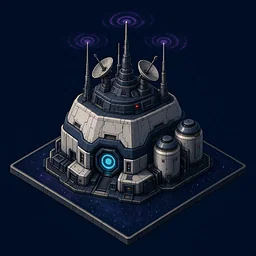
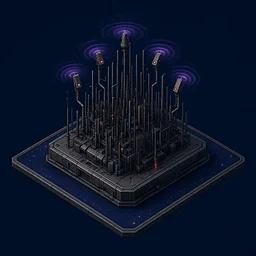
Colony version 3 art: 13 building cards, 12 wanderer portraits
Third xAI batch (26 images; 89 of the owner's 100 used): cards for the
Arsenal, Shipyard, Barracks, Scrapyard, Battery Emplacement, Sensor Mast,
Shield Pylon, Jammer Array, Fusion Reactor, Mushroom Wall, Terrace Homes,
Wanderers' Lodge and Officers' Quarters, and portraits of the 12 wanderers,
made with Sato's portrait as the style reference.

Claude-Session: https://claude.ai/code/session_01LUUiQnni3Pa9naorgny46R

Changed region(s): [[0.0312, 0.0312, 0.9688, 0.9688], [0.8125, 0.625, 0.8438, 0.6562], [0.7188, 0.6875, 0.75, 0.7188]]

diff --git a/js/colony/art.js b/js/colony/art.js
@@ -78,8 +78,17 @@ const FILES = {
   'card/obsdeck': 'art/colony/card/obsdeck.webp',
   'card/arsenal': 'art/colony/card/arsenal.webp',
   'card/shipyard': 'art/colony/card/shipyard.webp',
+  'card/barracks': 'art/colony/card/barracks.webp',
+  'card/scrapyard': 'art/colony/card/scrapyard.webp',
   'card/emplacement': 'art/colony/card/emplacement.webp',
+  'card/sensormast': 'art/colony/card/sensormast.webp',
+  'card/shieldpylon': 'art/colony/card/shieldpylon.webp',
   'card/jammer': 'art/colony/card/jammer.webp',
+  'card/fusion': 'art/colony/card/fusion.webp',
+  'card/mushroom': 'art/colony/card/mushroom.webp',
+  'card/terrace': 'art/colony/card/terrace.webp',
+  'card/lodge': 'art/colony/card/lodge.webp',
+  'card/quarters': 'art/colony/card/quarters.webp',
   'title/rebuild': 'art/colony/title/rebuild.webp',
   'sky/earth-below': 'art/colony/sky/earth-below.webp',
   'terrain/void': 'art/colony/terrain/void.webp',
